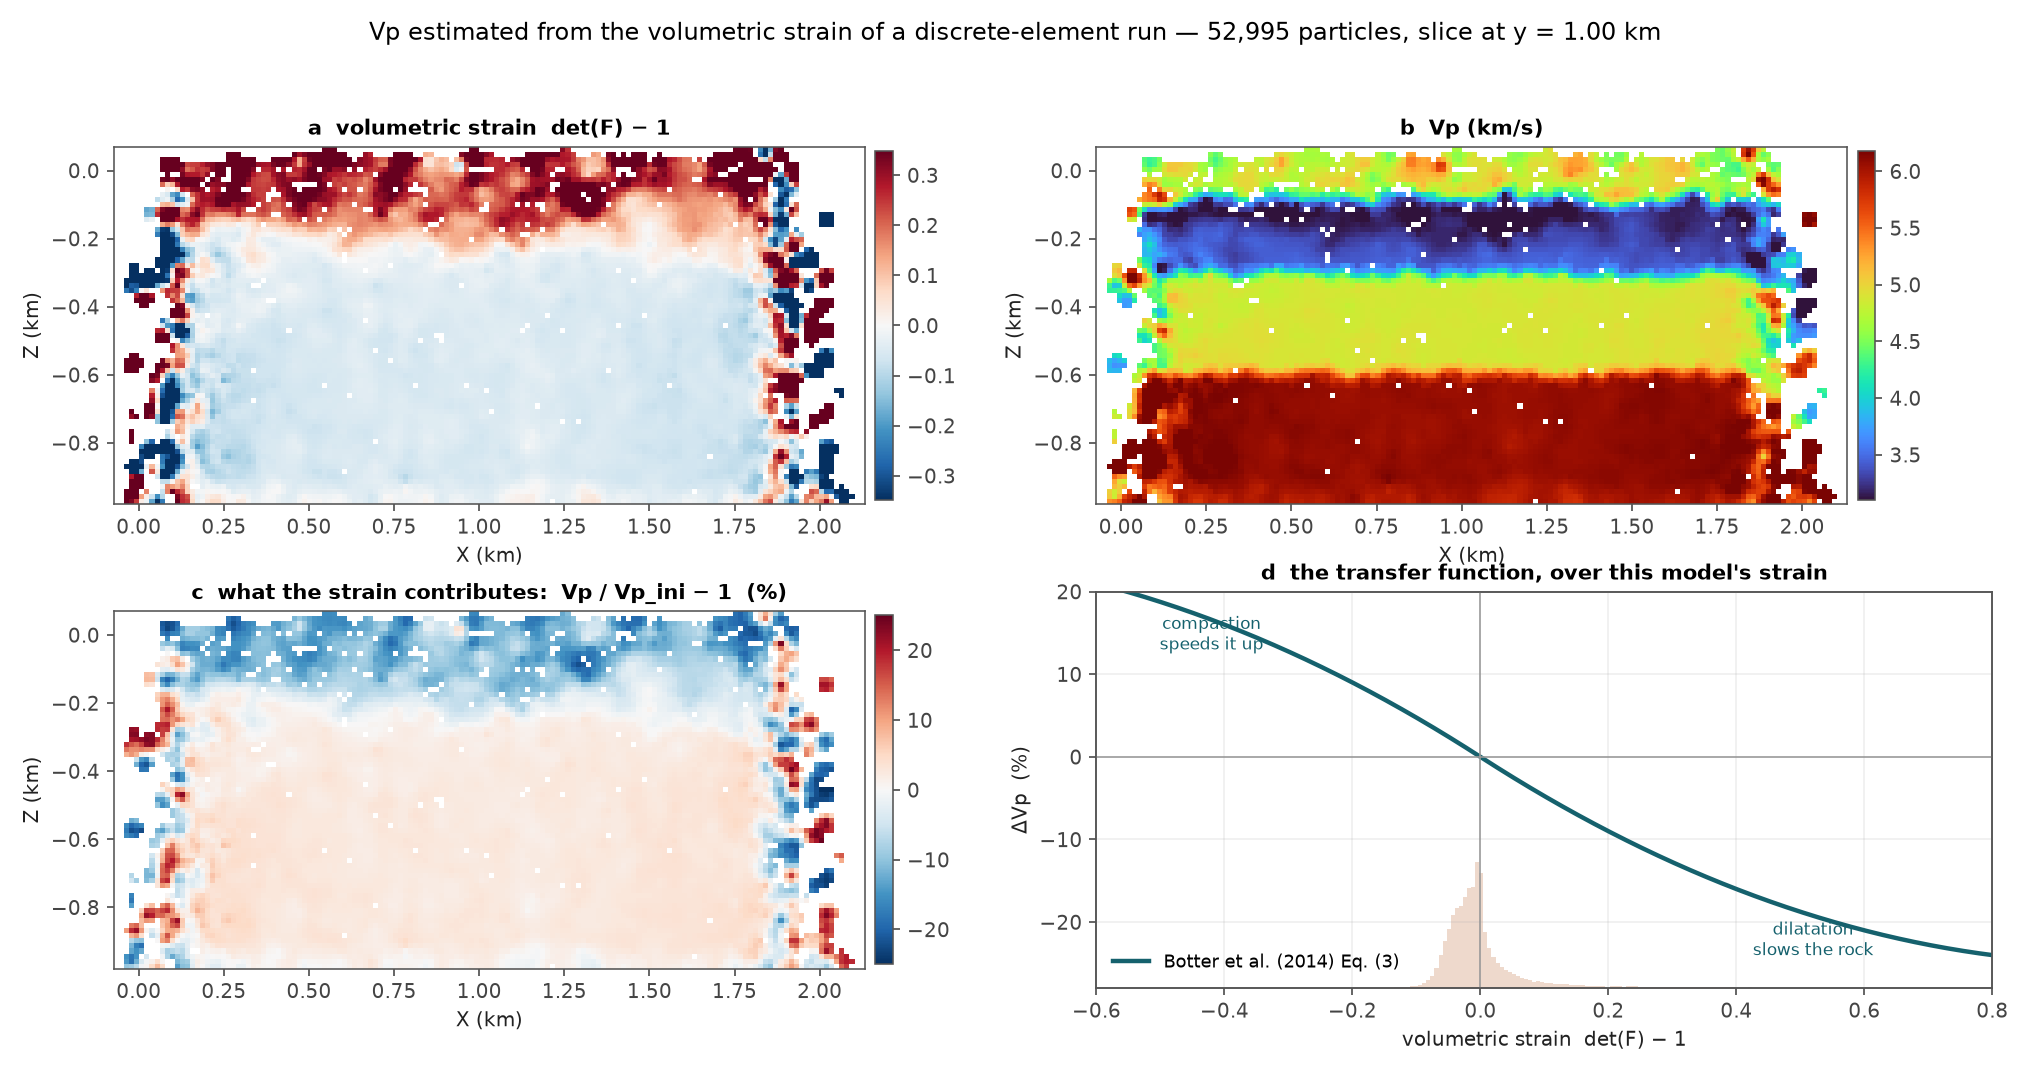
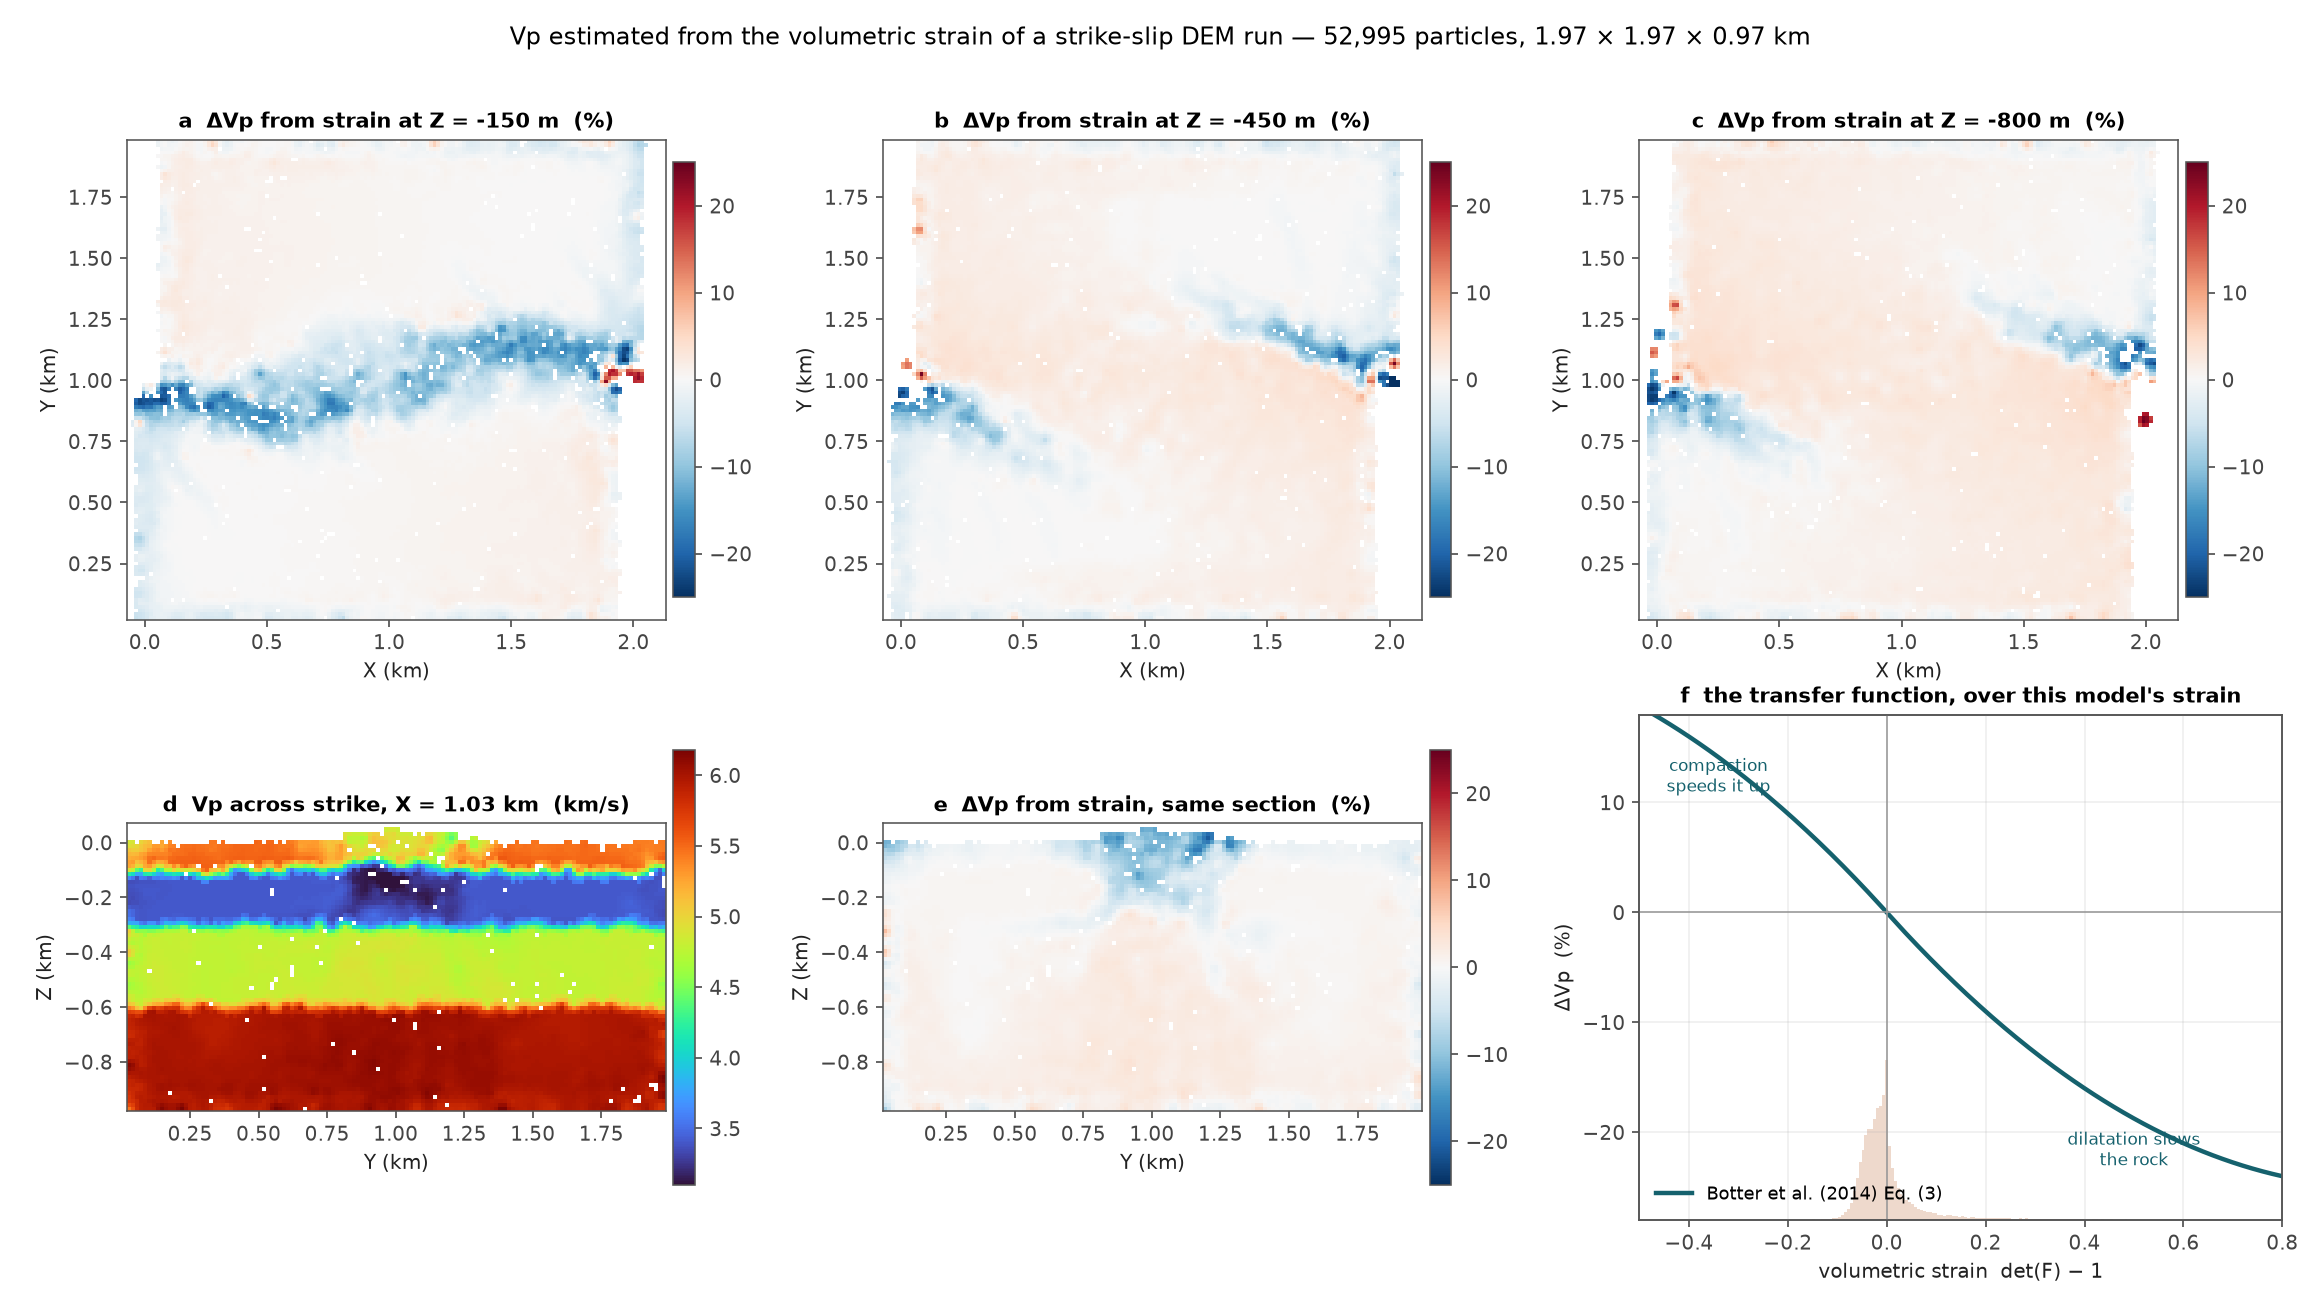
Lay the Vp figures out for the model's own geometry
StrikeSlip_vtk3575.vtk identifies the new run as strike-slip, and the
displacements confirm it: u_x averages -36.3 m in the lower half of y and
+36.5 m in the upper half, a shear couple with a mean near zero. The
earlier "beta = 1.116" reading was wrong -- the bounding box widens in x
because the two halves slide past each other, not because the material
stretches.

That also means the earlier x-z section at mid-y lay IN the fault plane
and showed almost none of the structure. The figures now lead with map
views at three depths, plus a fault-perpendicular y-z section, and the
damage zone appears as a sinuous low-Vp band at y = 0.9-1.2 km:

  depth          dilated > 5%        mean dVp          Vp
                 core / outside   core / outside   core / outside
     0..-300 m   55.7% / 13.0%   -5.44% / -0.70%   3.85 / 4.06 km/s
  -300..-600 m   12.2% /  2.1%   +0.68% / +0.48%   4.80 / 4.79
  -600..-1000 m  10.6% /  3.1%   +1.15% / +0.89%   5.99 / 5.97

(core = 0.70 < y < 1.30 km, driving walls excluded.)

The uploaded .vtk is the ParaView INPUT, not a mesh: CELL_TYPES = 1
(VTK_VERTEX), one vertex cell per particle, with POINTS identical to
init_pos3.txt and the radius scalar identical to rad_3.txt. It carries no
tetrahedra, so vp_from_strain.py still builds its own -- which, with the
orientation fix, agrees with the independent SSPX estimate at r = +0.802.

Claude-Session: https://claude.ai/code/session_011rpFUoSFaiT3aJ2bH4mt5z

diff --git a/make_vp_figures.py b/make_vp_figures.py
@@ -1,4 +1,9 @@
-"""Figures for vp_from_strain.py: strain in, Vp out."""
+"""Figures for vp_from_strain.py, laid out for the model's own geometry.
+
+For a strike-slip run the informative view is the map view: the fault
+zone is a band in y, and slip is in x. A single x-z section at mid-y
+lies IN the fault plane and shows almost nothing of the structure.
+"""
 import sys
 
 import numpy as np
@@ -12,80 +17,90 @@ import rock_physics as R
 NPZ = sys.argv[1] if len(sys.argv) > 1 else "./results/vp_model3.npz"
 TAG = sys.argv[2] if len(sys.argv) > 2 else "model3"
 DX = 15.0
+DEPTHS = (-150.0, -450.0, -800.0)
 
 D = np.load(NPZ)
 X0, X1, vol = D["X0"], D["X1"], D["vol"]
-Vp, Vp_ini, rho, rho_0 = D["Vp"], D["Vp_ini"], D["rho"], D["rho_0"]
+Vp, Vp_ini, rho_0 = D["Vp"], D["Vp_ini"], D["rho_0"]
+dVp = 100.0 * (Vp / Vp_ini - 1.0)
 
 plt.rcParams.update({
     "figure.facecolor": "white", "axes.facecolor": "white", "font.size": 10,
     "axes.edgecolor": "#555", "axes.labelcolor": "#222",
     "xtick.color": "#444", "ytick.color": "#444", "axes.titleweight": "bold",
 })
-
-gx = np.arange(X1[:, 0].min(), X1[:, 0].max() + DX, DX)
-gz = np.arange(X1[:, 2].min(), X1[:, 2].max() + DX, DX)
-y_mid = 0.5 * (X1[:, 1].min() + X1[:, 1].max())
-GX, GZ = np.meshgrid(gx, gz, indexing="ij")
-nodes = np.column_stack([GX.ravel(), np.full(GX.size, y_mid), GZ.ravel()])
 tree = cKDTree(X1)
-dist, idx = tree.query(nodes, k=6)
-w = 1.0 / np.maximum(dist, 1e-9) ** 2
-inside = (dist[:, 0] < 2 * DX).reshape(GX.shape)
-grid = lambda v: ((w * v[idx]).sum(1) / w.sum(1)).reshape(GX.shape)
-EXT = [gx.min() / 1000, gx.max() / 1000, gz.min() / 1000, gz.max() / 1000]
-msk = ~inside.T
+ax_grid = lambda k: np.arange(X1[:, k].min(), X1[:, k].max() + DX, DX)
+gx, gy, gz = (ax_grid(k) for k in range(3))
 
 
-def panel(ax, field, title, **kw):
-    im = ax.imshow(np.ma.array(grid(field).T, mask=msk), origin="lower", extent=EXT,
-                   aspect="equal", **kw)
+def slab(fixed_axis, value, a_vals, b_vals):
+    """Interpolate onto a plane through `value` on `fixed_axis`."""
+    A, B = np.meshgrid(a_vals, b_vals, indexing="ij")
+    cols = [None, None, None]
+    free = [k for k in range(3) if k != fixed_axis]
+    cols[free[0]], cols[free[1]] = A.ravel(), B.ravel()
+    cols[fixed_axis] = np.full(A.size, value)
+    nodes = np.column_stack(cols)
+    dist, idx = tree.query(nodes, k=6)
+    w = 1.0 / np.maximum(dist, 1e-9) ** 2
+    mask = (dist[:, 0] >= 2 * DX).reshape(A.shape)
+    return (lambda v: np.ma.array(((w * v[idx]).sum(1) / w.sum(1)).reshape(A.shape).T,
+                                  mask=mask.T)), A.shape
+
+
+def show(ax, field, ext, title, xlab, ylab, **kw):
+    im = ax.imshow(field, origin="lower", extent=ext, aspect="equal", **kw)
     ax.set_title(title, fontsize=10.5)
-    ax.set_xlabel("X (km)"); ax.set_ylabel("Z (km)")
-    plt.colorbar(im, ax=ax, shrink=0.88, pad=0.012)
-    return im
+    ax.set_xlabel(xlab); ax.set_ylabel(ylab)
+    plt.colorbar(im, ax=ax, shrink=0.86, pad=0.012)
 
 
-fig, ax = plt.subplots(2, 2, figsize=(14, 7.4))
+fig, ax = plt.subplots(2, 3, figsize=(16, 9))
+EXT_XY = [gx.min() / 1000, gx.max() / 1000, gy.min() / 1000, gy.max() / 1000]
 
-lim = np.percentile(np.abs(vol[np.abs(vol) < 1]), 98)
-panel(ax[0, 0], np.clip(vol, -1, 1), "a  volumetric strain  det(F) − 1",
-      cmap="RdBu_r", vmin=-lim, vmax=lim)
-panel(ax[0, 1], Vp, "b  Vp (km/s)", cmap="turbo",
-      vmin=np.percentile(Vp, 1), vmax=np.percentile(Vp, 99))
-panel(ax[1, 0], 100 * (Vp / Vp_ini - 1), "c  what the strain contributes:  Vp / Vp_ini − 1  (%)",
-      cmap="RdBu_r", vmin=-25, vmax=25)
+for j, zc in enumerate(DEPTHS):
+    g, _ = slab(2, zc, gx, gy)
+    show(ax[0, j], g(dVp), EXT_XY,
+         f"{'abc'[j]}  ΔVp from strain at Z = {zc:.0f} m  (%)",
+         "X (km)", "Y (km)", cmap="RdBu_r", vmin=-25, vmax=25)
 
-# the transfer function itself, with the data's own strain distribution under it
-a = ax[1, 1]
+# fault-perpendicular section, at mid-x
+x_mid = 0.5 * (gx.min() + gx.max())
+g, _ = slab(0, x_mid, gy, gz)
+EXT_YZ = [gy.min() / 1000, gy.max() / 1000, gz.min() / 1000, gz.max() / 1000]
+show(ax[1, 0], g(Vp), EXT_YZ, f"d  Vp across strike, X = {x_mid/1000:.2f} km  (km/s)",
+     "Y (km)", "Z (km)", cmap="turbo", vmin=np.percentile(Vp, 1), vmax=np.percentile(Vp, 99))
+show(ax[1, 1], g(dVp), EXT_YZ, "e  ΔVp from strain, same section  (%)",
+     "Y (km)", "Z (km)", cmap="RdBu_r", vmin=-25, vmax=25)
+
+a = ax[1, 2]
 ev = np.linspace(-1, 1, 400)
 a.plot(ev, 100 * (R.vp_from_strain(ev, 1.0) - 1), lw=2.2, color="#15616d",
        label="Botter et al. (2014) Eq. (3)")
 a.axhline(0, color="#999", lw=.8); a.axvline(0, color="#999", lw=.8)
-a.set_xlim(-0.6, 0.8); a.set_ylim(-28, 20)
+a.set_xlim(-0.5, 0.8); a.set_ylim(-28, 18)
 a.set_xlabel("volumetric strain  det(F) − 1"); a.set_ylabel("ΔVp  (%)")
-a.set_title("d  the transfer function, over this model's strain", fontsize=10.5)
+a.set_title("f  the transfer function, over this model's strain", fontsize=10.5)
 tw = a.twinx()
-tw.hist(vol[np.abs(vol) < 1], bins=220, range=(-0.6, 0.8), color="#b4531b", alpha=.22, lw=0)
+tw.hist(vol[np.abs(vol) < 1], bins=220, range=(-0.5, 0.8), color="#b4531b", alpha=.22, lw=0)
 tw.set_yticks([]); tw.set_ylim(0, tw.get_ylim()[1] * 3.0)
 a.set_zorder(tw.get_zorder() + 1); a.patch.set_visible(False)
 a.legend(frameon=False, fontsize=9, loc="lower left"); a.grid(alpha=.22)
-a.text(.52, -24, "dilatation\nslows the rock", fontsize=8.5, color="#15616d", ha="center")
-a.text(-.42, 13, "compaction\nspeeds it up", fontsize=8.5, color="#15616d", ha="center")
+a.text(.50, -23, "dilatation slows\nthe rock", fontsize=8.5, color="#15616d", ha="center")
+a.text(-.34, 11, "compaction\nspeeds it up", fontsize=8.5, color="#15616d", ha="center")
 
-fig.suptitle(f"Vp estimated from the volumetric strain of a discrete-element run — "
-             f"{len(X0):,} particles, slice at y = {y_mid/1000:.2f} km", fontsize=12)
-fig.tight_layout(rect=[0, 0, 1, 0.945])
+fig.suptitle("Vp estimated from the volumetric strain of a strike-slip DEM run — "
+             f"{len(X0):,} particles, 1.97 × 1.97 × 0.97 km", fontsize=12)
+fig.tight_layout(rect=[0, 0, 1, 0.955])
 fig.savefig(f"fig_vp_{TAG}.png", dpi=145)
 print(f"saved fig_vp_{TAG}.png")
 
-# --- second figure: the reference state and the two strain estimators ----
+# --- detail: reference state, estimator agreement, Vp distribution -----
 fig2, ax2 = plt.subplots(1, 3, figsize=(15, 4.2))
-
 for v in np.unique(rho_0):
     m = rho_0 == v
-    ax2[0].scatter(Vp[m][::40], X0[m, 2][::40] / 1000, s=3, alpha=.25,
-                   label=f"ρ = {v:.0f} kg/m³")
+    ax2[0].scatter(Vp[m][::40], X0[m, 2][::40] / 1000, s=3, alpha=.25, label=f"ρ = {v:.0f} kg/m³")
 edges = np.arange(X0[:, 2].min(), X0[:, 2].max() + 20, 20.0)
 mid = 0.5 * (edges[:-1] + edges[1:]) / 1000
 prof = np.array([Vp[(X0[:, 2] >= a_) & (X0[:, 2] < b_)].mean() for a_, b_ in zip(edges[:-1], edges[1:])])
@@ -103,12 +118,18 @@ ax2[1].set_title(f"two strain estimators, r = {np.corrcoef(D['vol_sspx'][b], vol
                  fontsize=10.5)
 plt.colorbar(h[3], ax=ax2[1], shrink=.88, pad=.012)
 
-ax2[2].hist(Vp, bins=160, color="#15616d", alpha=.8)
-for v in np.unique(D["Vp_ini"]):
-    ax2[2].axvline(v, color="#b4531b", ls="--", lw=1.1)
-ax2[2].set_xlabel("Vp (km/s)"); ax2[2].set_ylabel("particles")
-ax2[2].set_title("Vp distribution; dashed = the four reference velocities", fontsize=10.5)
-ax2[2].grid(alpha=.22)
+# dilatated fraction across the fault, by depth band
+yb = np.linspace(X0[:, 1].min(), X0[:, 1].max(), 26)
+yc = 0.5 * (yb[:-1] + yb[1:]) / 1000
+for zlo, zhi, lab in ((-300, 0, "0 to −300 m"), (-600, -300, "−300 to −600 m"),
+                      (-1000, -600, "−600 to −1000 m")):
+    m = (X0[:, 2] >= zlo) & (X0[:, 2] < zhi)
+    frac = [100 * np.mean(vol[m & (X0[:, 1] >= p) & (X0[:, 1] < q)] > 0.05)
+            for p, q in zip(yb[:-1], yb[1:])]
+    ax2[2].plot(yc, frac, lw=1.9, label=lab)
+ax2[2].set_xlabel("Y (km)"); ax2[2].set_ylabel("particles dilated by > 5%  (%)")
+ax2[2].set_title("the fault zone, seen as dilatation across strike", fontsize=10.5)
+ax2[2].legend(frameon=False, fontsize=8.5); ax2[2].grid(alpha=.22)
 
 fig2.tight_layout()
 fig2.savefig(f"fig_vp_{TAG}_detail.png", dpi=145)
